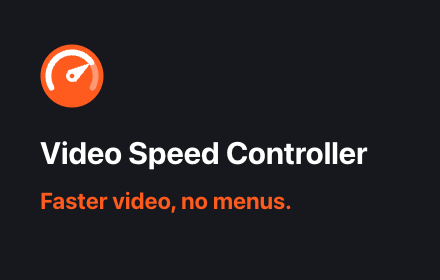
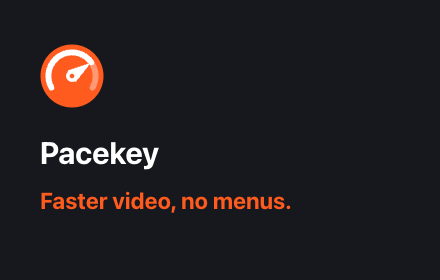
feat: rename to Pacekey – Video Speed Controller (1.1.1)
The plain name collided with at least two identical listings and 30+ variants
in the Chrome Web Store search; a distinct brand in front keeps the keyword
while making the listing findable and clearly not an impersonation.

Changed region(s): [[0.0886, 0.4857, 0.8568, 0.6286]]

diff --git a/store/copy.md b/store/copy.md
@@ -93,6 +93,6 @@ Also:
 
 ## Privacy policy (all languages, short)
 
-Video Speed Controller stores one value per open tab: the playback speed you chose, in `chrome.storage.session`.
+Pacekey stores one value per open tab: the playback speed you chose, in `chrome.storage.session`.
 It is deleted when the tab closes and never leaves your browser. The extension collects no personal data,
 sends nothing to any server, has no analytics and no remote code.

diff --git a/README.md b/README.md
@@ -1,4 +1,4 @@
-# Video Speed Controller
+# Pacekey – Video Speed Controller
 
 用鍵盤控制任何網頁影片的播放速度的 Chrome 擴充功能。純原生 JavaScript，沒有任何依賴，不需要編譯。
 
